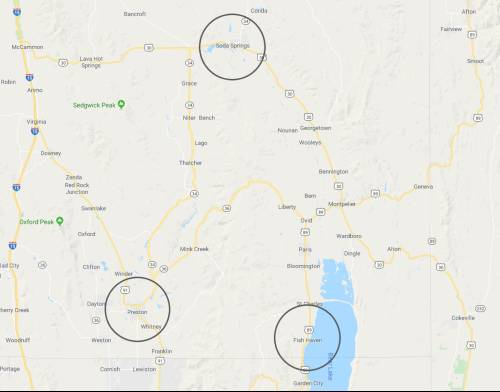
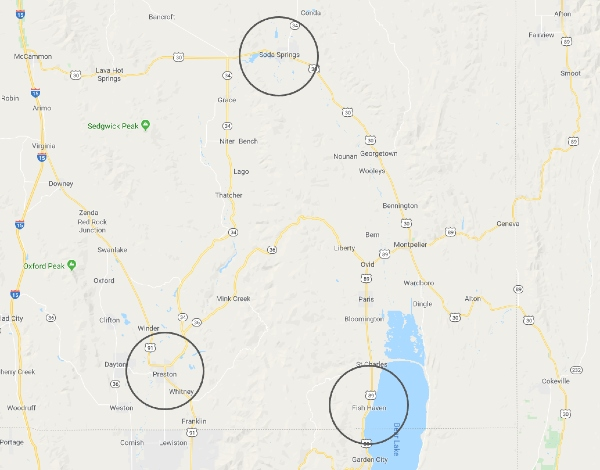
W05 changed map

diff --git a/lesson5/preston-5.html b/lesson5/preston-5.html
@@ -90,8 +90,10 @@
         laborum.</p>
     </div>
     <div class="section4">
-      <img class="contact-img" src="images/map.jpg" alt="map of southeastern Idaho">
-      <div class="contact-box">
+      <a class="contact-img" target="_blank" href="https://www.google.com/maps/place/1447+E+800+N,+Preston,+ID+83263/@42.1904493,-112.1708372,9.75z/data=!4m5!3m4!1s0x8754581a4f93ab7b:0x559de40a2abcaec2!8m2!3d42.1111605!4d-111.841079?hl=en">
+        <img src="images/map5.jpg" alt="map of southeastern Idaho">
+      </a>
+        <div class="contact-box">
         <div class="contact">
           <address>
             <strong>First Watch Weather</strong><br>1447 E 800 North<br>Preston, ID 83263<br><br>&#9742; 208.555.2653<br>&#9993; <a href="mailto:info@firstwatchweather.com">info@firstwatchweather.com</a>

diff --git a/lesson5/css/small.css b/lesson5/css/small.css
@@ -174,7 +174,6 @@ main {
 .section2 {
   display: none;
   background-color: #d0efb1;
-/*  background-color: #e7f4cd; */
   margin: 0.75rem;
   padding: 1rem;
 }
@@ -253,9 +252,11 @@ main {
   width: 45%;
   justify-content: center;
   align-items: center;
-  border-left: 1px solid rgba(0, 0, 0, 0.6);
-  border-top: 1px solid rgba(0, 0, 0, 0.6);
-  border-right: 1px solid rgba(0, 0, 0, 0.6);
+}
+
+.contact-img img{
+  width: 100%;
+  border: 1px solid rgba(0, 0, 0, 0.6);
 }
 
 .contact-box {
